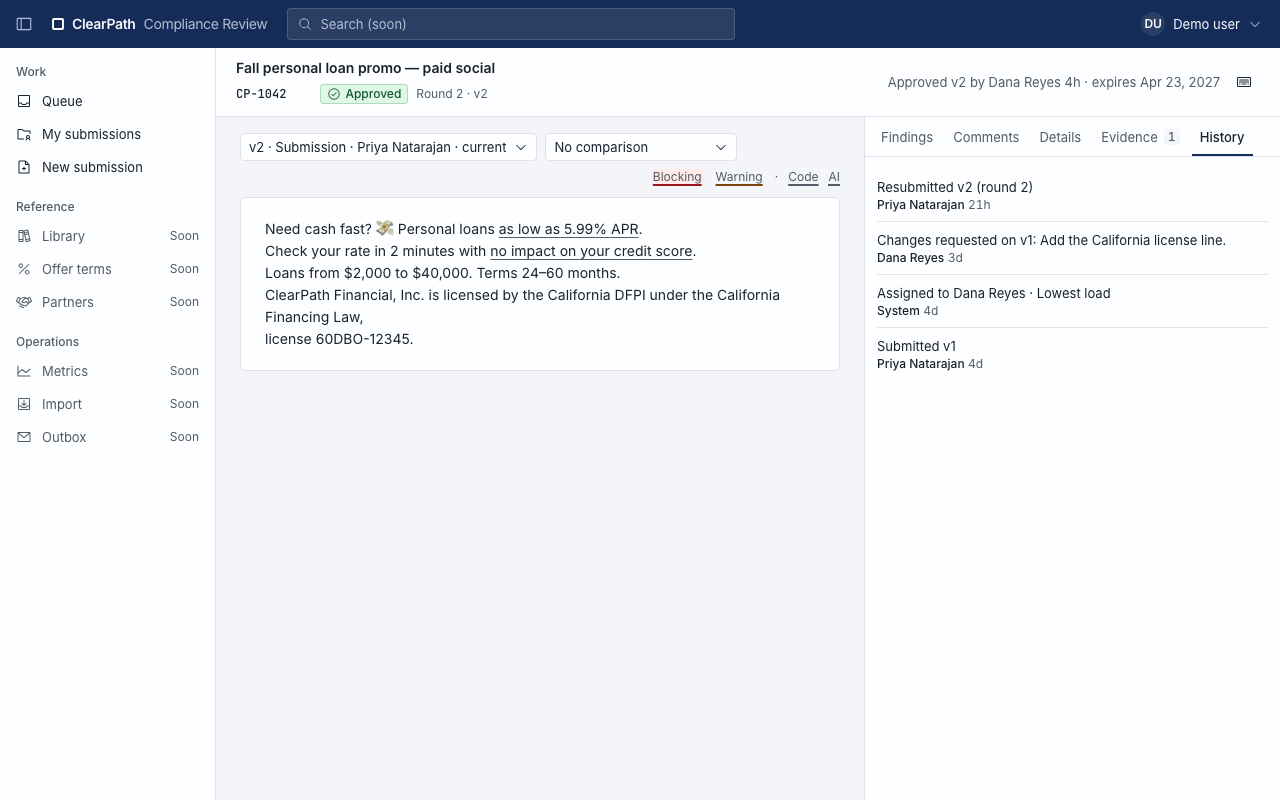
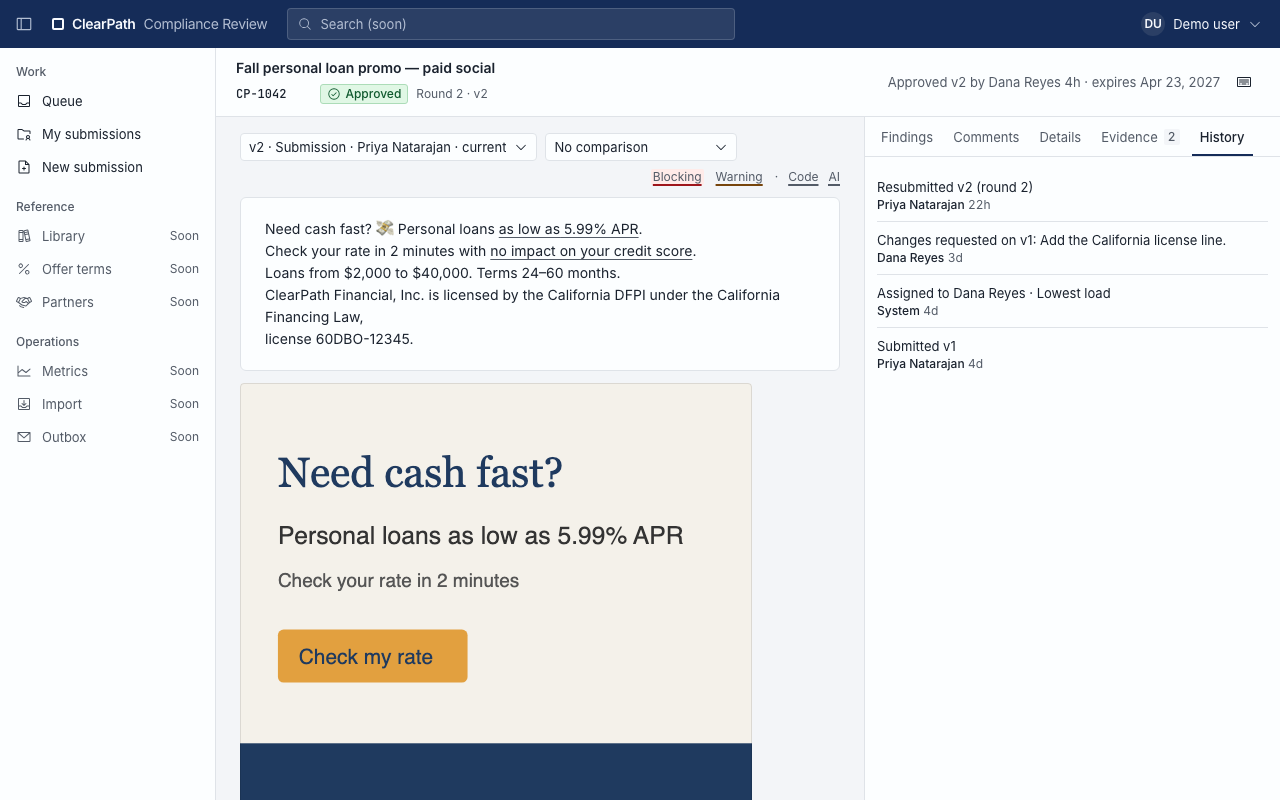
e2e stub serves a mockup creative; screens capture it

diff --git a/frontend/e2e/stubApi.ts b/frontend/e2e/stubApi.ts
@@ -6,6 +6,7 @@
 import type { Page, Route } from '@playwright/test';
 
 import type {
+  AttachmentOut,
   CheckPreviewIn,
   CheckPreviewOut,
   DecisionIn,
@@ -47,6 +48,8 @@ export interface StubOptions {
   findings?: FindingOut[];
   placements?: PlacementOut[];
   rows?: ItemRowOut[];
+  /** Item attachments; defaults to the rate sheet. */
+  attachments?: AttachmentOut[];
   /** Delay for POST /checks/preview, to capture the "checking" state. */
   previewDelayMs?: number;
 }
@@ -132,6 +135,27 @@ function preview(body: CheckPreviewIn): CheckPreviewOut {
   return { findings, terms_refs: [], ruleset_key: '2026-07-21:2026-10-24.3' };
 }
 
+/** A stand-in creative (kind `creative`), served as SVG so the review screen's mockup slot has something real. */
+export const MOCKUP_ATTACHMENT: AttachmentOut = {
+  ...ATTACHMENTS[0],
+  id: 72,
+  kind: 'creative',
+  original_name: 'fall-pl-social-1080.svg',
+  content_type: 'image/svg+xml',
+  size_bytes: 1_204,
+  download_url: '/api/attachments/72/download',
+};
+
+const MOCKUP_SVG = `<svg xmlns="http://www.w3.org/2000/svg" width="540" height="540" viewBox="0 0 540 540">
+<rect width="540" height="540" fill="#f4f1ea"/><rect x="0" y="380" width="540" height="160" fill="#1f3a5f"/>
+<text x="40" y="110" font-family="Georgia, serif" font-size="44" fill="#1f3a5f">Need cash fast?</text>
+<text x="40" y="170" font-family="Helvetica, Arial" font-size="26" fill="#333">Personal loans as low as 5.99% APR</text>
+<text x="40" y="215" font-family="Helvetica, Arial" font-size="20" fill="#555">Check your rate in 2 minutes</text>
+<rect x="40" y="260" width="200" height="56" rx="6" fill="#e2a03f"/>
+<text x="62" y="296" font-family="Helvetica, Arial" font-size="22" fill="#1f3a5f">Check my rate</text>
+<text x="40" y="470" font-family="Helvetica, Arial" font-size="16" fill="#fff">ClearPath Financial · Loans from $2,000 to $40,000</text>
+</svg>`;
+
 function json(route: Route, body: unknown, status = 200) {
   return route.fulfill({ status, contentType: 'application/json', body: JSON.stringify(body) });
 }
@@ -188,7 +212,12 @@ export async function stubApi(page: Page, options: StubOptions = {}): Promise<St
       return json(route, created, 201);
     }
     if ((m = /^\/items\/\d+\/attachments$/.exec(path))) {
-      return method === 'GET' ? json(route, ATTACHMENTS) : json(route, ATTACHMENTS[0], 201);
+      return method === 'GET'
+        ? json(route, options.attachments ?? ATTACHMENTS)
+        : json(route, ATTACHMENTS[0], 201);
+    }
+    if (path === '/attachments/72/download') {
+      return route.fulfill({ status: 200, contentType: 'image/svg+xml', body: MOCKUP_SVG });
     }
     if ((m = /^\/items\/\d+$/.exec(path))) return json(route, state.item);
     if ((m = /^\/items\/\d+\/findings$/.exec(path))) {

diff --git a/frontend/e2e/screens.spec.ts b/frontend/e2e/screens.spec.ts
@@ -7,6 +7,7 @@ import { expect, test } from '@playwright/test';
 import type { Page } from '@playwright/test';
 
 import {
+  ATTACHMENTS,
   DECISION_APPROVED,
   FINDINGS_OPEN,
   dismissedAll,
@@ -15,7 +16,7 @@ import {
   triaged,
   versionFixture,
 } from '../src/test/fixtures/review';
-import { stubApi } from './stubApi';
+import { MOCKUP_ATTACHMENT, stubApi } from './stubApi';
 import type { StubOptions } from './stubApi';
 
 const OUT = '../docs/plan/reviews/ui/review';
@@ -100,6 +101,7 @@ const REVIEW_STATES: Record<
         live_placements_count: 1,
       },
       findings: triaged(FINDINGS_OPEN),
+      attachments: [...ATTACHMENTS, MOCKUP_ATTACHMENT],
     },
     url: '/items/1042?tab=history',
   },

diff --git a/docs/plan/reports/review-intake.md b/docs/plan/reports/review-intake.md
@@ -1,0 +1,11 @@
+# Report: Review screen, intake, and My submissions (workstream I, issue #10)
+
+Branch `wsI/review-intake`. Plan: `docs/plan/review-intake.md`. UI review: `docs/plan/reviews/ui-review.md`,
+screenshots in `docs/plan/reviews/ui/review/`.
+
+Execution: hybrid. The shared layer (copy highlighting, live checks, diff, form fields, fixtures, routes) and
+the Review screen were built natively; New submission, My submissions, and Resubmit went to one subagent in
+its own worktree, branched from the shared-layer commit and merged back. Parallel agents in one worktree
+would have seen each other's half-edited `theme.css`.
+
+(Sections below are filled in as work lands.)
